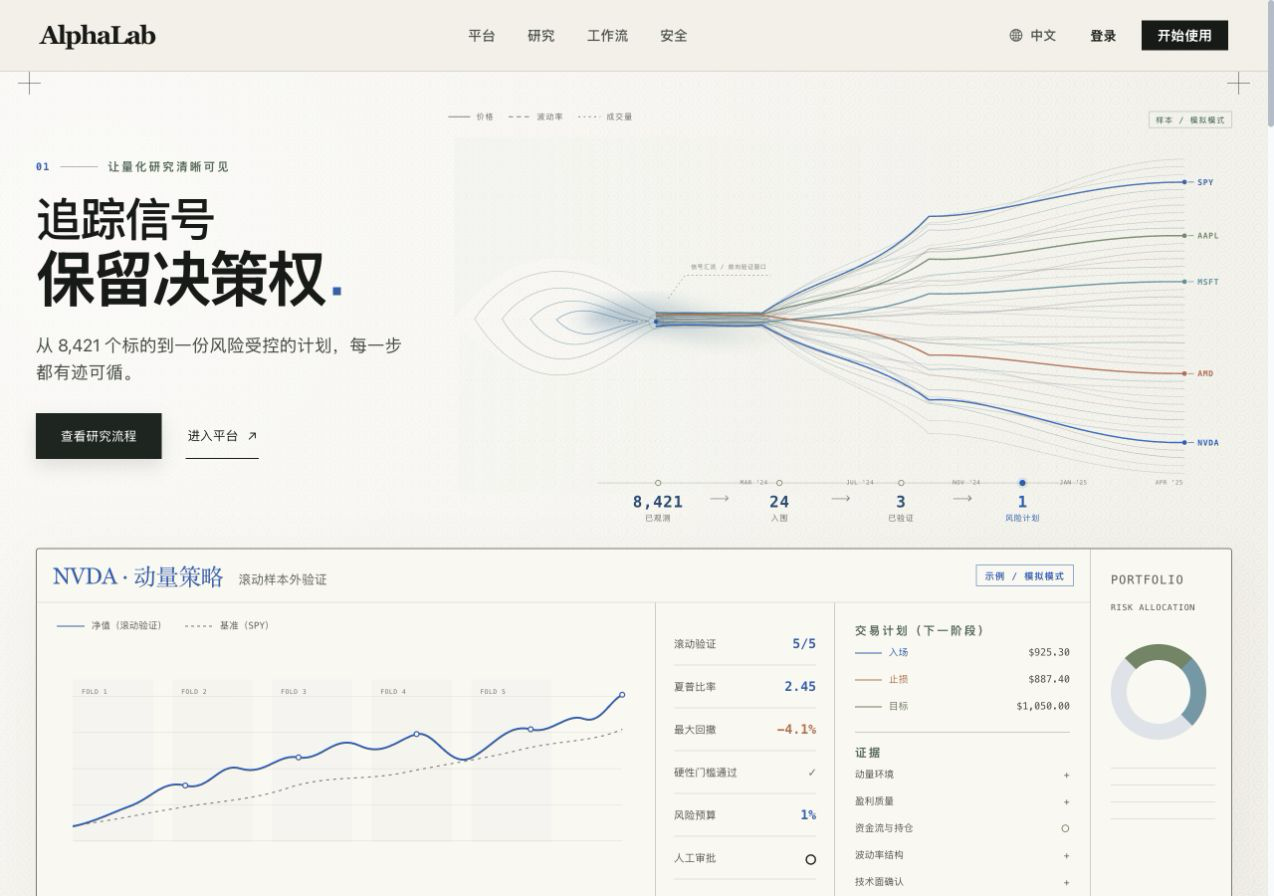
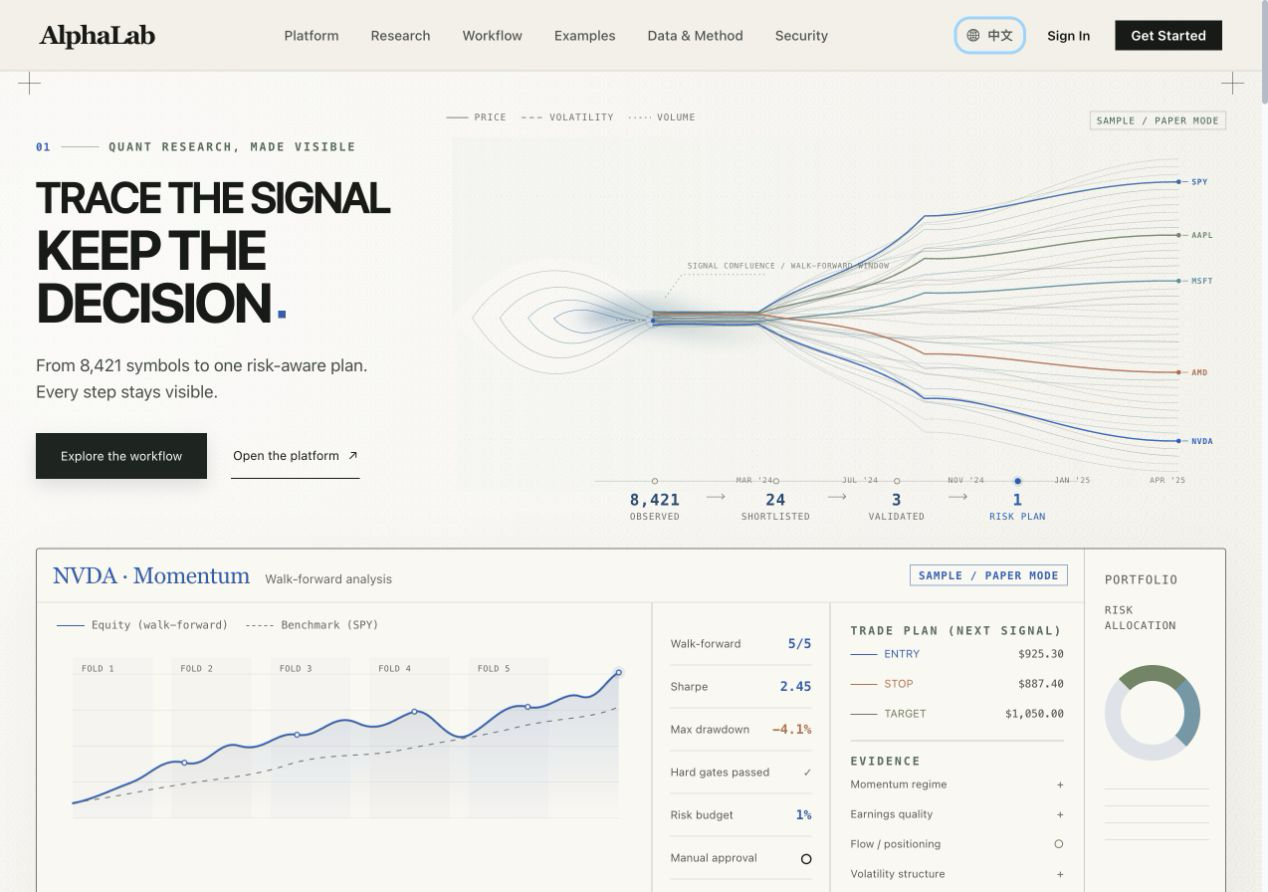
docs: replace v3 visual reference with English interface

diff --git a/README.md b/README.md
@@ -34,9 +34,9 @@ The platform is designed around visible evidence. Scanner inputs, validation res
 
 The routed interface supports English and Simplified Chinese. Language selection persists in the browser and updates the application and Ant Design locale; text returned by external providers may remain in its source language.
 
-![AlphaLab v3 public overview in Simplified Chinese](docs/assets/alphalab-v3-overview.png)
+![AlphaLab v3 public overview in English](docs/assets/alphalab-v3-overview.png)
 
-_AlphaLab v3 public overview in the Simplified Chinese interface. Figures shown in this product illustration are not live telemetry._
+_AlphaLab v3 public overview in the English interface. Figures shown in this product illustration are not live telemetry._
 
 ## Capabilities
 